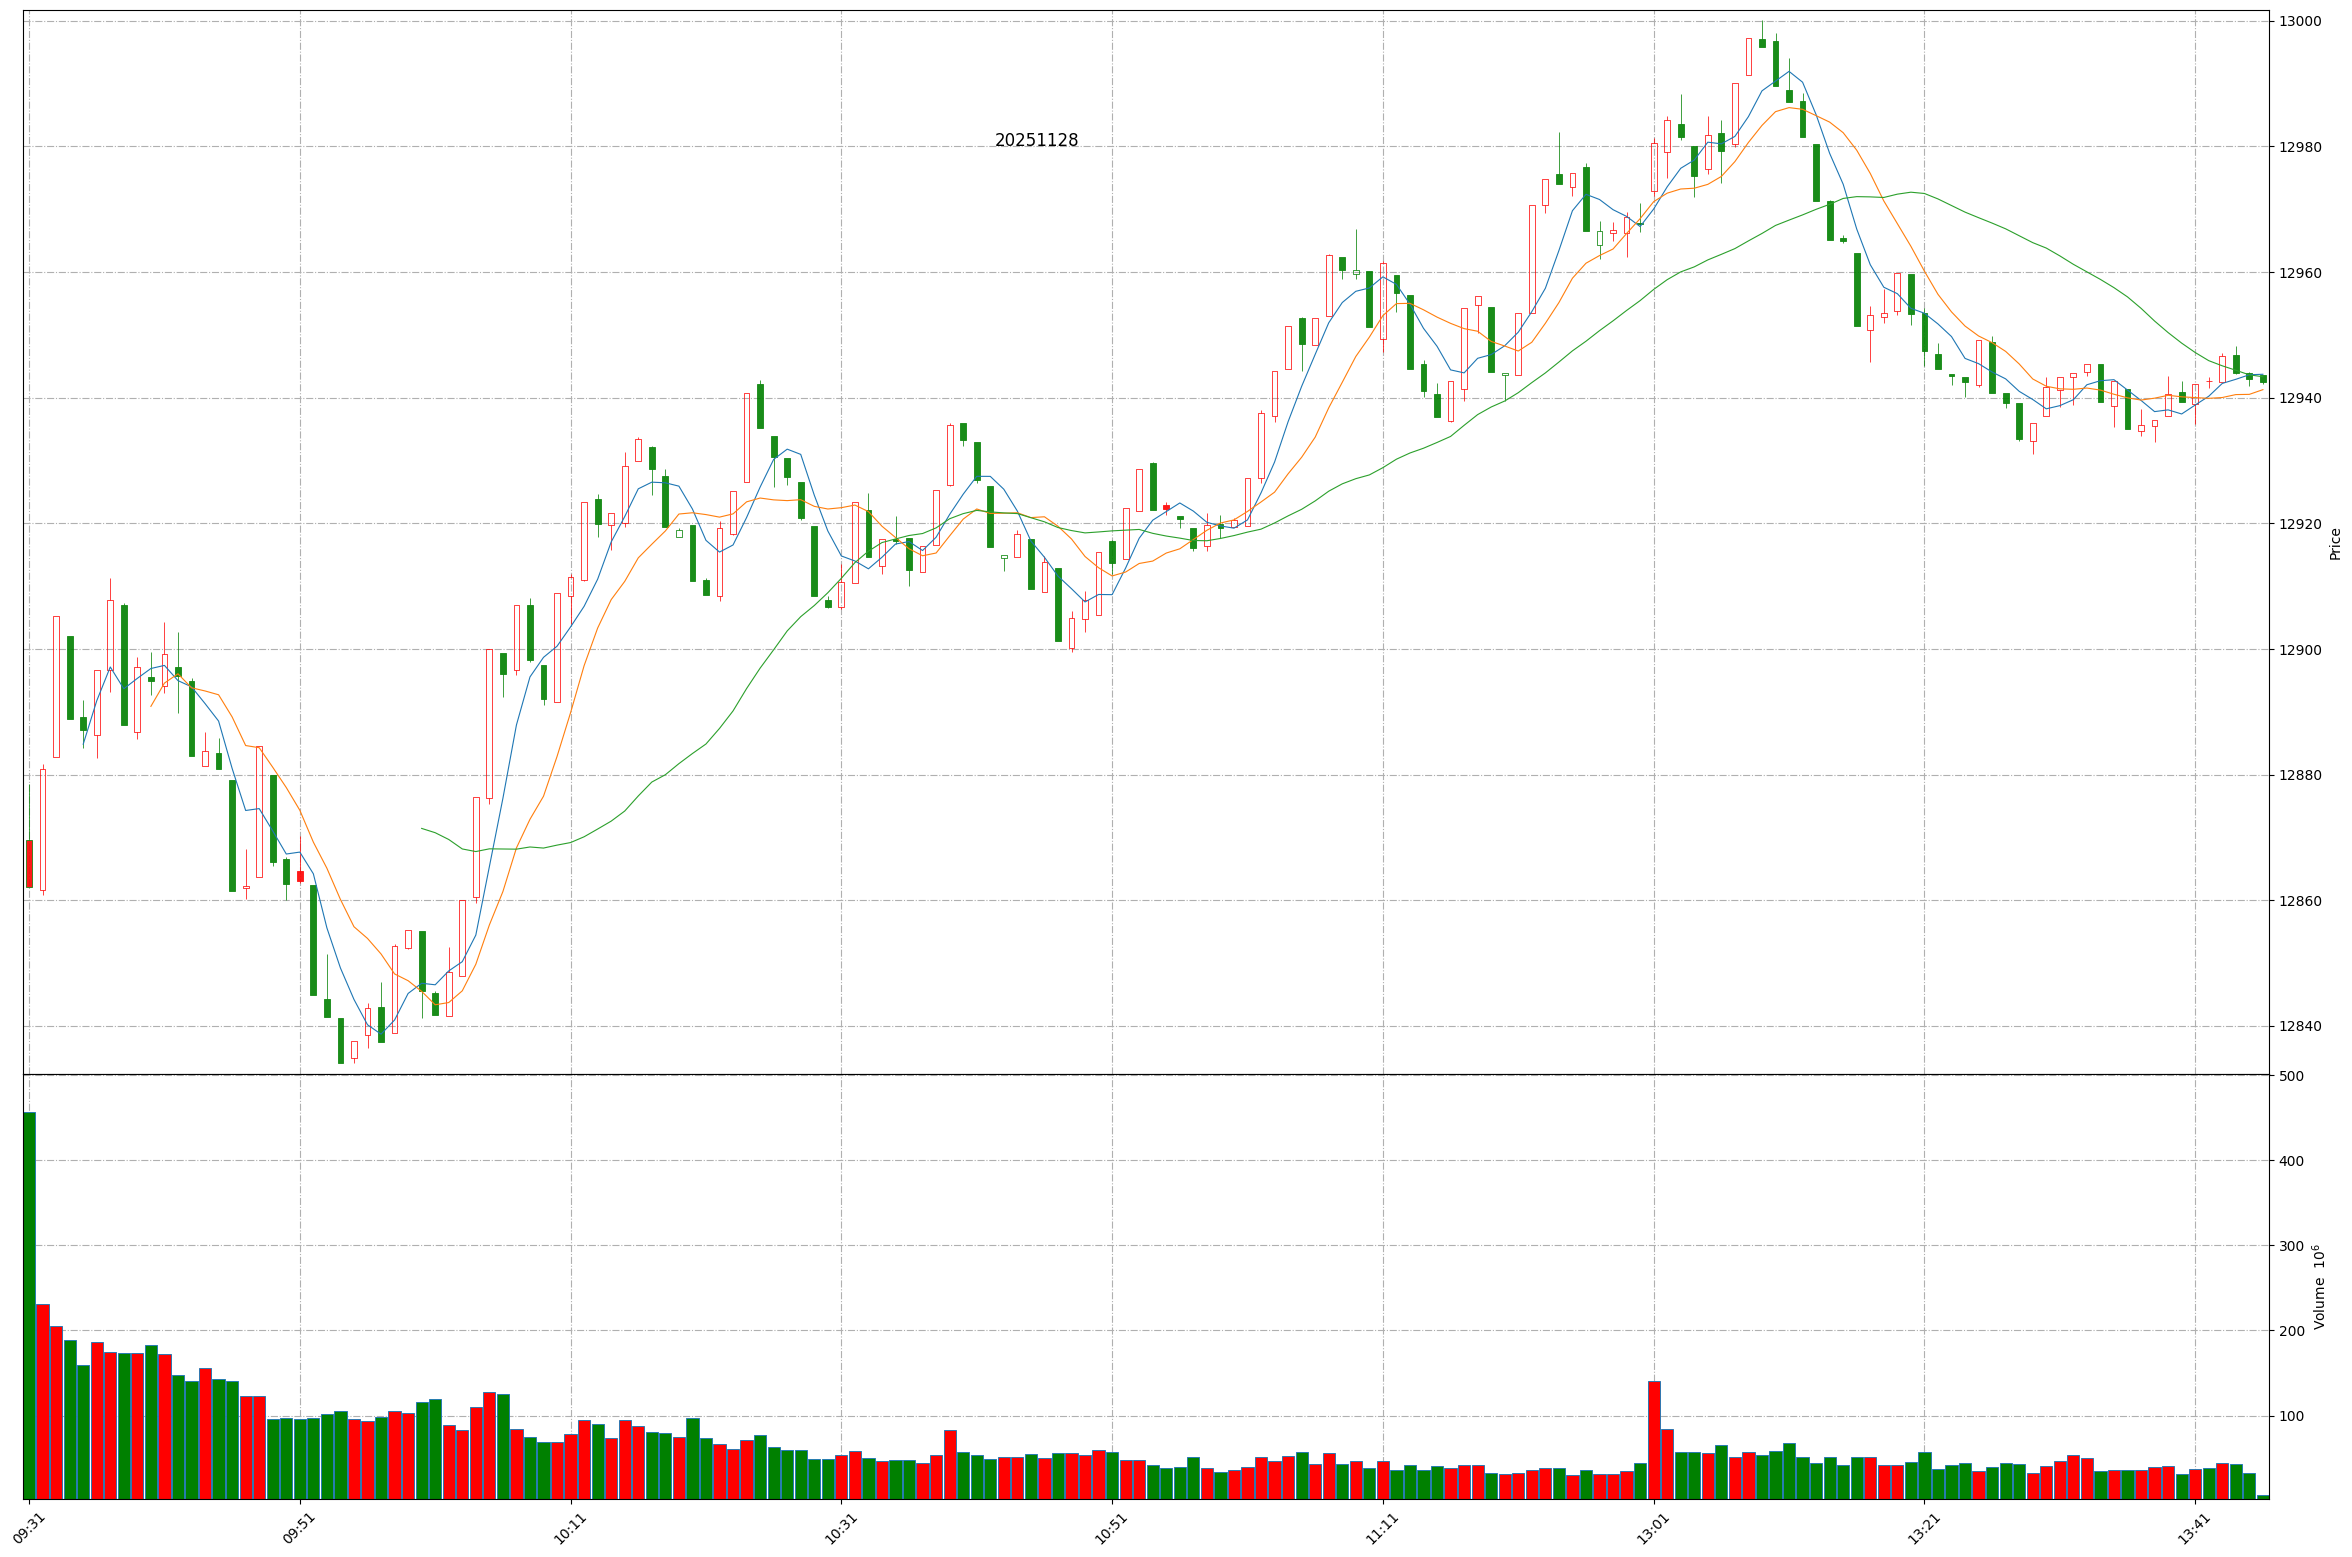
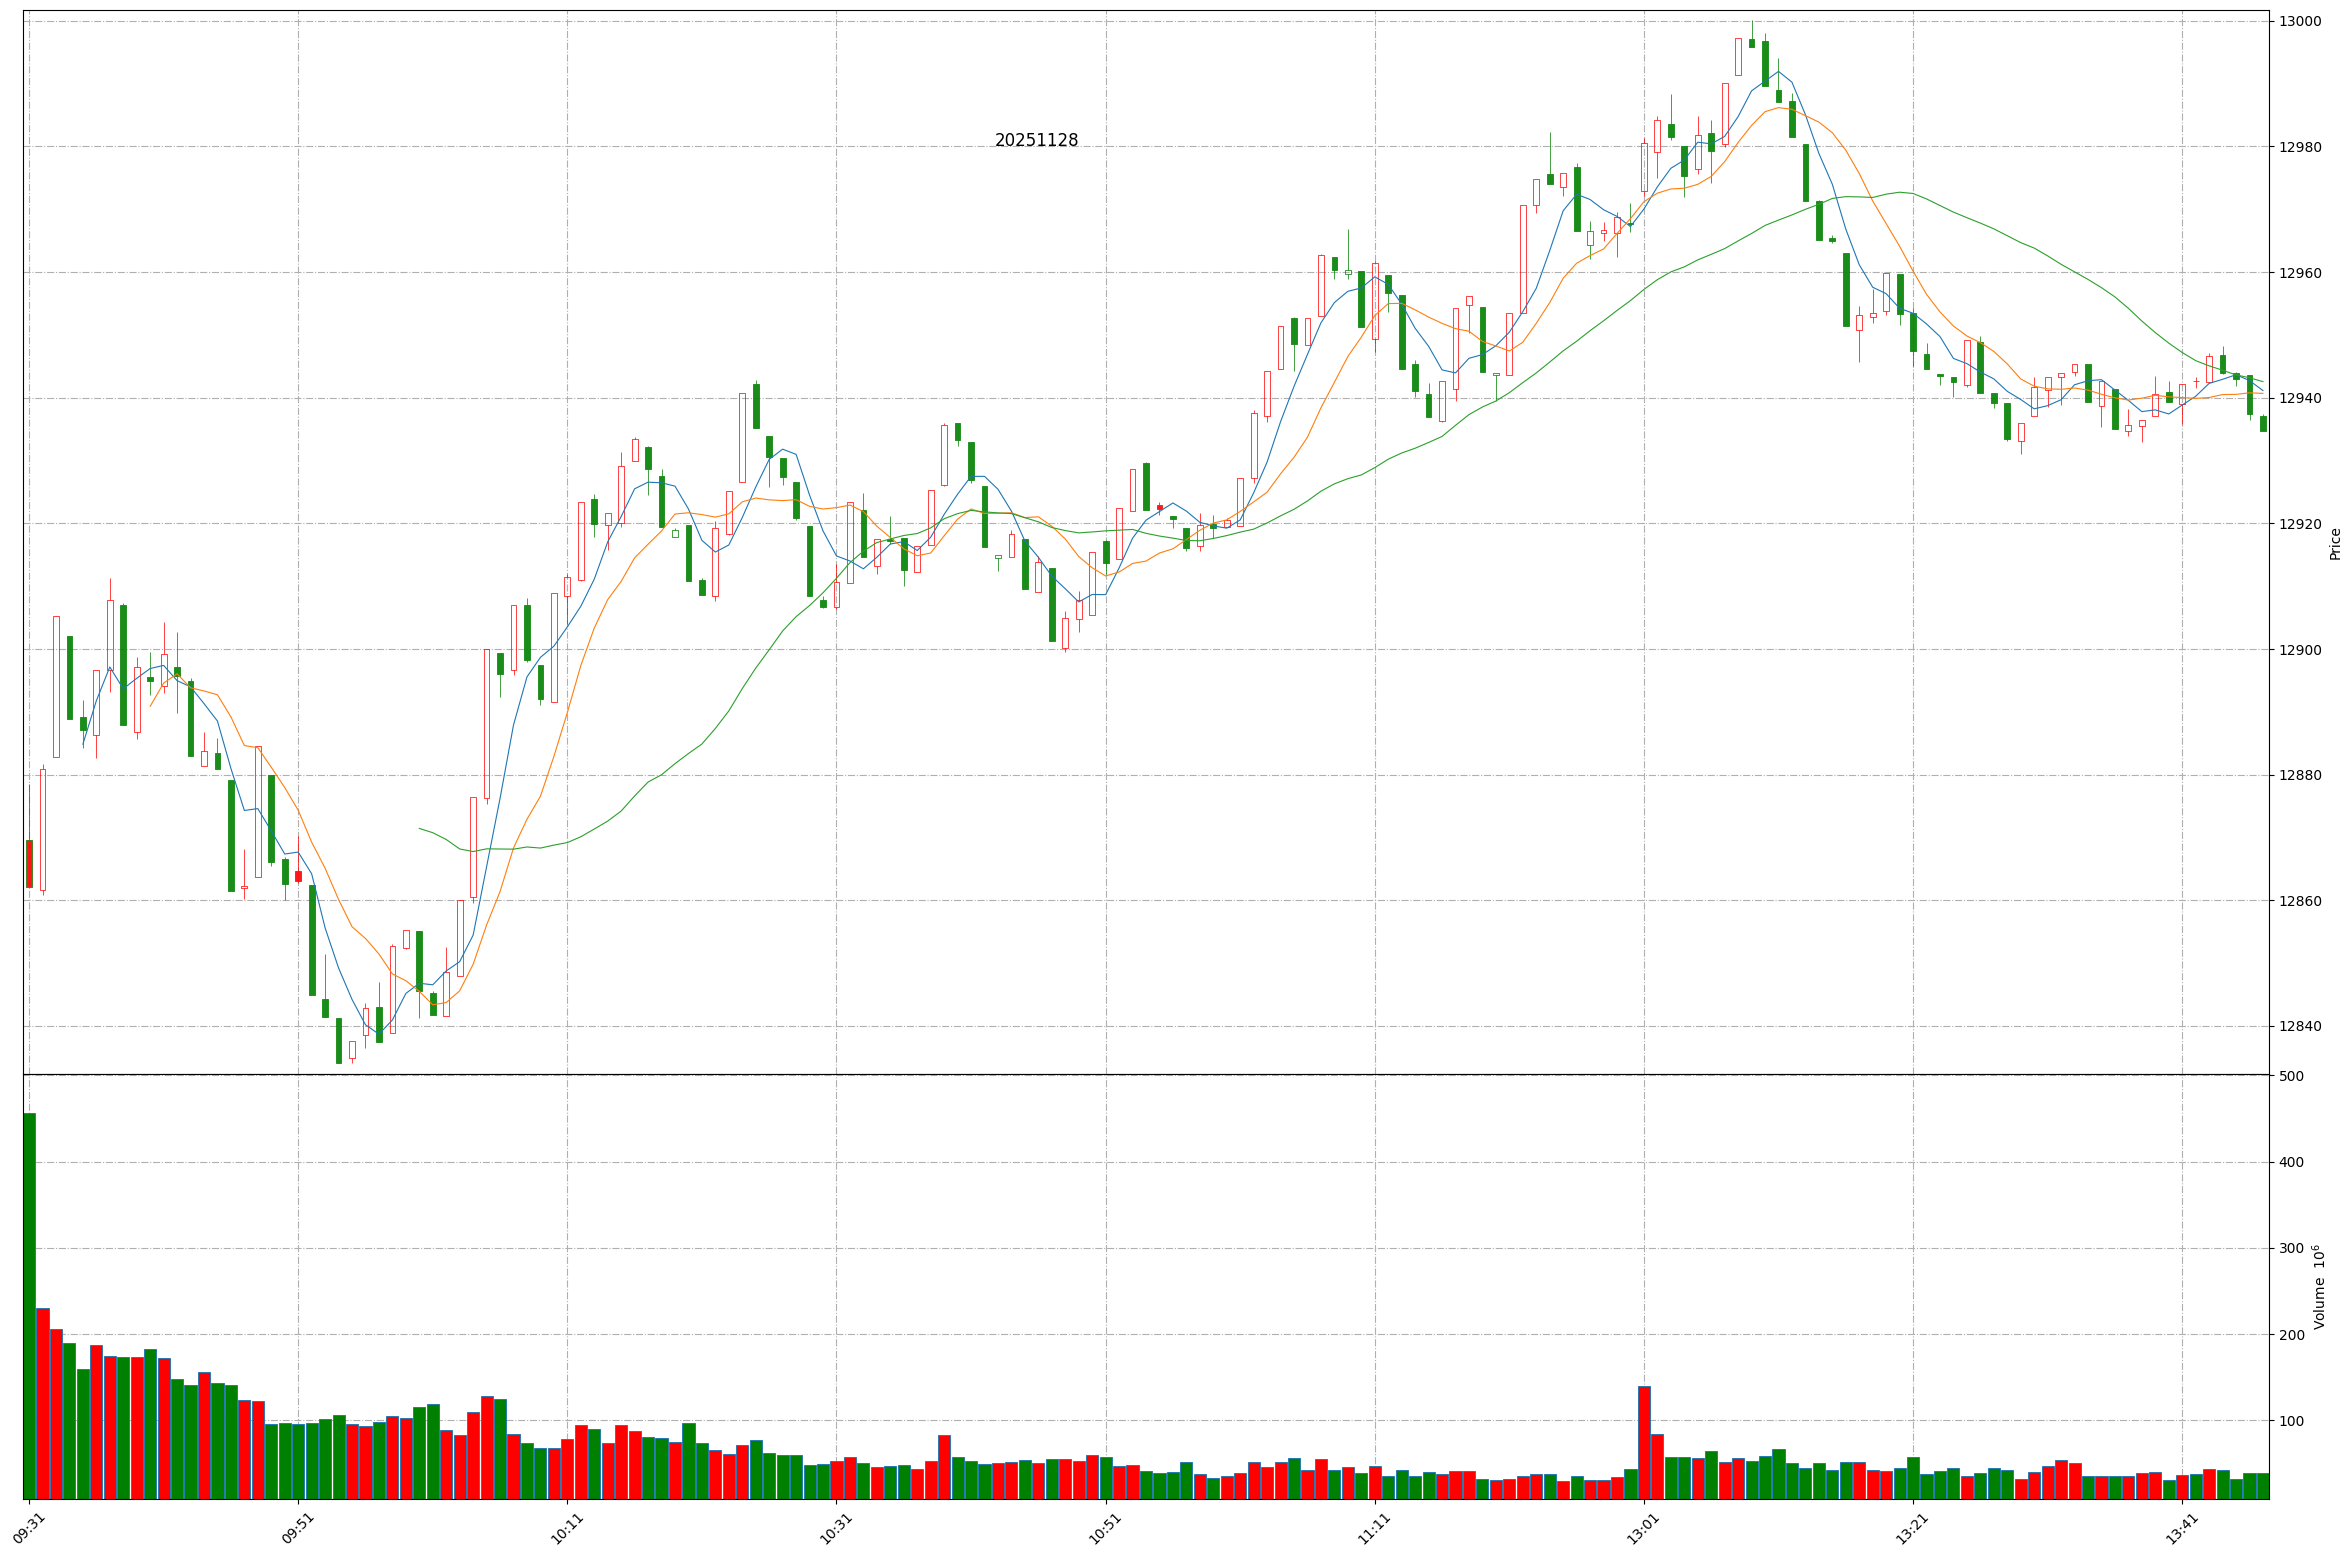
Github action update at 2025-11-28 13:47:10.

diff --git a/README.md b/README.md
@@ -1,11 +1,11 @@
 
 # Daily-A-share-market-quotes 每日 A 股指数（5min 更新）- 20251128
 
-### 上证指数 20251128 13:45
+### 上证指数 20251128 13:47
 ![](./fig/2025/11/20251128-sh000001.png)
 
-### 深证成指 20251128 13:45
+### 深证成指 20251128 13:47
 ![](./fig/2025/11/20251128-sz399001.png)
 
-### 北证50 20251128 13:45
+### 北证50 20251128 13:47
 ![](./fig/2025/11/20251128-bj899050.png)
